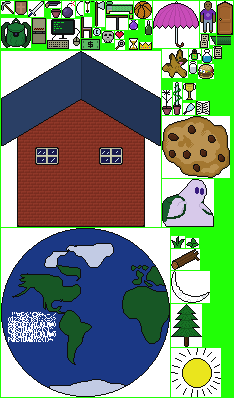
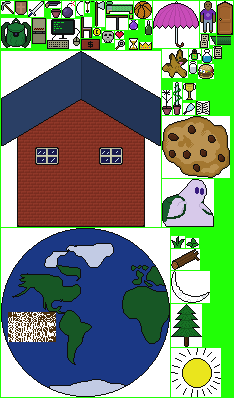
on second thought, we'll need multi-line text

Changed region(s): [[0.0299, 0.7839, 0.2393, 0.8744], [0.3291, 0.0603, 0.4487, 0.1206]]

diff --git a/src/game/text.c b/src/game/text.c
@@ -5,36 +5,65 @@
 
 int generate_label(const char *src,int srcc) {
   if (!src) srcc=0; else if (srcc<0) { srcc=0; while (src[srcc]) srcc++; }
-  #define VTX_LIMIT 128
-  struct egg_draw_decal vtxv[VTX_LIMIT];
-  int vtxc=0;
-  if (srcc>VTX_LIMIT) srcc=VTX_LIMIT;
   const int srcx=8,srcy=312;
   const int colw=3,rowh=5;
   const int xspacing=colw+1;
-  const int h=rowh+2;
-  int w=1+srcc*xspacing;
-  int texid=egg_texture_new();
-  egg_texture_load_raw(texid,w,h,w<<2,0,0);
-  egg_draw_clear(texid,0x1b3885ff);
-  int x=1;
-  for (;srcc-->0;src++,x+=xspacing) {
-    int srccol=(*src)&15;
-    int srcrow=(*src)>>4;
-    srcrow-=2; // we've only got rows 2 thru 7
-    if ((srcrow<0)||(srcrow>=6)) continue;
-    int sx=srcx+srccol*colw;
-    int sy=srcy+srcrow*rowh;
-    struct egg_draw_decal *vtx=vtxv+vtxc++;
-    vtx->dstx=x;
-    vtx->dsty=1;
-    vtx->srcx=sx;
-    vtx->srcy=sy;
-    vtx->w=colw;
-    vtx->h=rowh;
-    vtx->xform=0;
+  const int yspacing=rowh+1;
+  
+  // Determine output dimensions and glyph count.
+  int rowc=0,colc=1,srcp=0,vtxc=0;
+  while (srcp<srcc) {
+    const char *line=src+srcp;
+    int linec=0;
+    while ((srcp<srcc)&&(src[srcp++]!=0x0a)) linec++;
+    if (linec>colc) colc=linec;
+    // We're not going to draw 0x20 or 0x7f, or anything outside G0.
+    for (;linec-->0;line++) if ((*line>0x20)&&(*line<0x7f)) vtxc++;
+    rowc++;
   }
+  if (!rowc) rowc=1;
+  int fullw=1+colc*xspacing;
+  int fullh=1+rowc*yspacing;
+  
+  // Make the destination texture and fill it with the background color.
+  // Then if there's no glyphs, we're done.
+  int texid=egg_texture_new();
+  egg_texture_load_raw(texid,fullw,fullh,fullw<<2,0,0);
+  egg_draw_clear(texid,0x4c2f0dff);
+  if (!vtxc) return texid;
+  
+  // Prepare a vertex buffer.
+  struct egg_draw_decal *vtxv=malloc(sizeof(struct egg_draw_decal)*vtxc);
+  if (!vtxv) return texid;
+  struct egg_draw_decal *vtx=vtxv;
+  int vtxp=0;
+  
+  // Walk the string again, populating (vtxv).
+  int x=1,y=1;
+  for (;srcc-->0;src++) {
+    if (*src==0x0a) {
+      x=1;
+      y+=yspacing;
+      continue;
+    }
+    if ((*src>0x20)&&(*src<0x7f)) {
+      int srccol=(*src)&15;
+      int srcrow=((*src)>>4)-2;
+      vtx->dstx=x;
+      vtx->dsty=y;
+      vtx->srcx=srcx+srccol*colw;
+      vtx->srcy=srcy+srcrow*rowh;
+      vtx->w=colw;
+      vtx->h=rowh;
+      vtx->xform=0;
+      vtx++;
+      if (++vtxp>=vtxc) break; // safety escape, in case i miscalculated above
+    }
+    x+=xspacing;
+  }
+  
+  // Draw it, free the vertex buffer, and we're done.
   egg_draw_decal(texid,g.texid,vtxv,vtxc);
+  free(vtxv);
   return texid;
-  #undef VTX_LIMIT
 }

diff --git a/src/game/main.c b/src/game/main.c
@@ -29,7 +29,12 @@ int egg_client_init() {
   g.platformv[g.platformc++]=(struct platform){ 50, 80, 81};
   g.platformv[g.platformc++]=(struct platform){300,100,101};
   
-  texid_msg=generate_label("Hello! This is the game.",-1);
+  texid_msg=generate_label(
+    "Hello! This is the game.\n"
+    "   Indentation is possible.\n"
+    "And as you can see,\n"
+    "multi-line text is no problem.\n"
+  ,-1);
   egg_texture_get_status(&msgw,&msgh,texid_msg);
   
   return 0;

diff --git a/src/game/game.h b/src/game/game.h
@@ -27,7 +27,8 @@ extern struct g {
   int dp;//XXX
 } g;
 
-/* Labels are strictly one line, monospaced.
+/* Labels are strictly monospaced. Pad with spaces if you like.
+ * Lines break on LF, nowhere else.
  * There is always a 1-pixel border.
  * Returns a texture id which the caller must delete.
  */

diff --git a/README.md b/README.md
@@ -35,3 +35,17 @@ Make a trivial platformer.
 Pick up coins in the wild, trade them to the peddlar for things, and give those to the flying cheeseburger.
 Once three things are given to the cheeseburger you win.
 Um. It's not going to be all that engaging of a game.
+
+## TODO
+
+- [ ] Gravity, jumping, and platform respect.
+- [ ] Load scene from maps. Do use "map" resources, but disregard their grid data, use the command list only.
+- [ ] Door.
+- [ ] Coins to collect.
+- [ ] Peddlar sprite.
+- [ ] Peddlar modal.
+- [ ] Cheeseburger.
+- [ ] Setting and rising sun, moon, and cookie. Modify sky color on changes.
+- [ ] Game over modal.
+- [ ] Music.
+- [ ] Sound effects.
